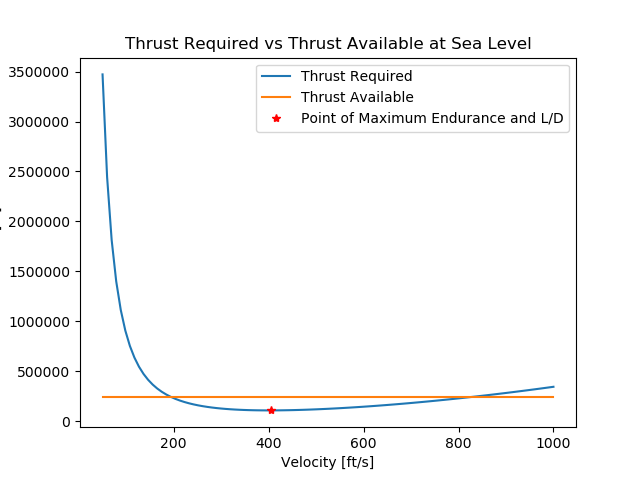
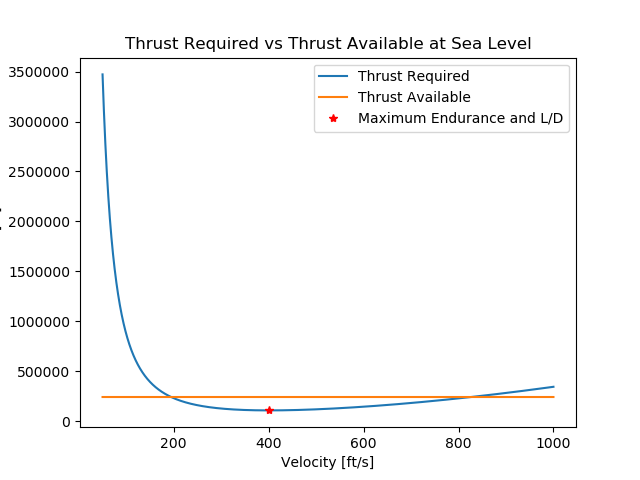
Add modification to aircraft with all the same analysis, cleaned up the code for the main loop for it
Reminder: make the code for the first analysis clean like the second one

diff --git a/main.py b/main.py
@@ -107,7 +107,6 @@ class mae_200_project():
         plt.savefig('max_R_sl.png')
         """
 
-        """
         # Calculate service and absolute ceiling, and max R/C at sea level
         length = 5000
         v = np.linspace(50,1000,length)
@@ -175,6 +174,8 @@ class mae_200_project():
          
         temp1 = 1
         temp3 = 1
+        temp2 = 0
+        temp4 = 0
         for i,i_val in enumerate(v_absolute_ceiling):
             for j,j_val in enumerate(v_absolute_ceiling):
                 if rho_absolute_ceiling[i][j] > 0:
@@ -260,12 +261,12 @@ class mae_200_project():
         plt.title('Endurance vs Velocity at Sea Level')
         plt.legend()
         fig5.savefig('endurance_v_sl')
-        fig6 = plt.figure()
-        plt.plot(v,ratio[length-1])
-        plt.ylim(0,10)
-        plt.xlabel('Velocity [ft/s]')
-        plt.ylabel('C_D_i/C_D_o [-]')
-        plt.title('Ratio of Induced Drag to Parasitic Drag vs Velocity at Sea Level')
+        #fig6 = plt.figure()
+        #plt.plot(v,ratio[length-1])
+        #plt.ylim(0,10)
+        #plt.xlabel('Velocity [ft/s]')
+        #plt.ylabel('C_D_i/C_D_o [-]')
+        #plt.title('Ratio of Induced Drag to Parasitic Drag vs Velocity at Sea Level')
         #plt.show()
         
 
@@ -294,9 +295,8 @@ class mae_200_project():
         # Part 5
         print('\n')
         print('Max rate of climb at sea level: ' + str(R_C_max[length-1]))
-
+   
         """
-
         # Graphs at sea level and 23,000 ft
         length = 100
         rho = np.array([0.0011435,0.002377])
@@ -382,18 +382,198 @@ class mae_200_project():
         fig11.savefig('R_C_sl')
 
         plt.show()
-
+        """
 
         # Modification/Optimization
-        S = 1.2*initial.S
+
+        # started doing this, realized it was going to be a lot of work so stopped
+        """
+        S_front = 1.2*initial.S_front
+        AR = initial.b_front**2/S_front
         W_f = initial.W_f + 0.2*initial.S*initial.sigma_wing
         C_D_o = 1.06*C_D_o
 
+        aircraft = Aircraft()
+        gamma = aircraft.state.gamma
+        R = aircraft.state.R
+
+        fuel 	 = 	0.5*initial.V_fuel_max 						 	   # [lbf] 			 # [SOW]
+        W_add 	 = 	0.2*initial.S*initial.sigma_wing 									 		   # [lb] 			 # [SOW]
+        t_alt 	 = 	418.97 									 		   # [R] 			 # [Table]
+        rho_alt  = 	0.00095801 										   # [slugs/ft^3] 	 # [Table]
+        mu 	     = 	2.27*10**-8*((t_alt**1.5)/(t_alt+198.6)) # [lb-s/ft^2] 	 # [FS]
+        mach	 = 	(gamma*R*t_alt)**0.5 			   # [] 			 # [FS]
+        E	     = 	''									 		   # [s] 			 # [SOW]
+        v 	     = 	0.801 								   # [ft/s] 			 # [SOW]
+        rnge     =  175.8*5280
+
+        V_max_flight = Flight(fuel,W_add,t_alt,rho_alt,v,rnge,E)
+
+        C_L = aircraft.CL(V_max_flight.rho_alt,V_max_flight.v,V_max_flight.W_i)
+        C_D_i = aircraft.CDi(C_L,e,)
+
+        T_a_28k = aircraft.thrustAvailable(V_max_flight.W_i,C_L,C_D)
+        """
+
+        # conditions that change for the modification
+        c_t = 0.5*c_t
+        V_fuel_max = 0.75*initial.V_fuel_max
+
+        fuel 	 = 	1*V_fuel_max 						 	   # [lbf] 			 # [SOW]
+        W_add = initial.W_max-V_fuel_max*initial.sigma_fuel-initial.W_f #additional weight needed to reach max possible weight
+        modified_flight = Flight(fuel,W_add,aircraft.state.t_sea,aircraft.state.rho_sea,0,'','')
+
+        # Main loop, need to edit the one up aboce to only have 1 main loop as well
+        length = 5000
+        v = np.linspace(50,1000,length)
+        rho = np.linspace(0.001,0.002377,length)
+        
+        L_D = np.zeros((length,length))
+        T_a = np.zeros((length,length))
+        T_r = np.zeros((length,length))
+        P_r = np.zeros((length,length))
+        P_a = np.zeros((length,length))
+        R_C = np.zeros((length,length))
+        R_C_max = np.zeros(length)
+
+        R_C_service_ceiling = np.zeros((length,length))
+        rho_service_ceiling = np.zeros((length,length))
+        v_service_ceiling = np.zeros((length,length))
+        R_C_absolute_ceiling = np.zeros((length,length))
+        rho_absolute_ceiling = np.zeros((length,length))
+        v_absolute_ceiling = np.zeros((length,length))
+
+        max_range = np.zeros(length)
+        range_test = np.zeros((length,length))
+        endurance = np.zeros((length,length))
+
+        max_range = 0
+        max_range_v = 0
+        max_range_rho = 0
+        temp1 = 1
+        temp3 = 1
+        temp2 = 0
+        temp4 = 0
+
+        tolerance = 1e-2
+        for i,rho_val in enumerate(rho):
+            temp = 0
+            for j,v_val in enumerate(v):
+                T_a[i][j] = aircraft.thrustAvailable2Alt(T_a_sl,aircraft.state.rho_sea,rho_val)
+                C_L = aircraft.CL(rho_val,v_val,modified_flight.W_i)
+                C_D_i = aircraft.CDi(C_L,e,initial.AR_front)
+                L_D[i][j] = C_L/(C_D_i+C_D_o)
+                T_r[i][j] = modified_flight.W_i/L_D[i][j]
+                P_r[i][j] = T_r[i][j]*v_val
+                P_a[i][j] = T_a[i][j]*v_val
+                R_C[i][j] = 60*(P_a[i][j]-P_r[i][j])/modified_flight.W_i
+                if R_C[i][j] >= 0:
+                    endurance[i][j] = L_D[i][j]*np.log(modified_flight.W_i/modified_flight.W_f)/c_t
+                    range_test[i][j] = aircraft.rnge(rho_val,initial.S,c_t,C_L,C_D_o+C_D_i,modified_flight.W_i,modified_flight.W_f)
+                if R_C[i][j] > temp:
+                    temp = R_C[i][j]
+                R_C_max[i] = temp
+                if R_C[i][j] <= 100+tolerance and R_C[i][j] >= 100-tolerance:
+                    R_C_service_ceiling[i][j] = R_C[i][j]
+                    rho_service_ceiling[i][j] = rho_val
+                    v_service_ceiling[i][j] = v_val
+                elif R_C[i][j] <= tolerance and R_C[i][j] >= -tolerance:
+                    R_C_absolute_ceiling[i][j] = R_C[i][j]
+                    rho_absolute_ceiling[i][j] = rho_val
+                    v_absolute_ceiling[i][j] = v_val
+                if rho_absolute_ceiling[i][j] < temp1 and rho_absolute_ceiling[i][j] > 0:
+                    temp1 = rho_absolute_ceiling[i][j]
+                    temp2 = v_absolute_ceiling[i][j]
+                if rho_service_ceiling[i][j] < temp3 and rho_service_ceiling[i][j] > 0:
+                    temp3 = rho_service_ceiling[i][j]
+                    temp4 = v_service_ceiling[i][j]
+                if range_test[i][j] > max_range:
+                    max_range = range_test[i][j]
+                    max_range_v = v_val
+                    max_range_rho = rho_val
+
+        absolute_ceiling = temp1
+        v_absolute = temp2
+        service_ceiling = temp3
+        v_service = temp4
+
+        fig1 = plt.figure()
+        plt.plot(v,range_test[length-1]/5280)
+        plt.plot(v[np.argmax(range_test[length-1])],max(range_test[length-1]/5280),'r*',label='Maximum Range')
+        plt.xlabel('Velocity [ft/s]')
+        plt.ylabel('Range [mi]')
+        plt.title('Range vs Velocity at Sea Level')
+        plt.legend()
+        fig1.savefig('rnge_v_sl')
+        fig2 = plt.figure()
+        plt.plot(v,P_r[length-1],label='Power Required')
+        plt.plot(v,P_a[length-1],label='Power Available')
+        plt.plot(v[np.argmax(range_test[length-1])],P_r[length-1][np.argmax(range_test[length-1])],'r*',label='Point of Maximum Range')
+        plt.xlabel('Velocity [ft/s]')
+        plt.ylabel('Power [W]')
+        plt.title('Power Required vs Power Available at Sea Level')
+        plt.legend()
+        fig2.savefig('Pr_Pa_sl')
+        fig3 = plt.figure()
+        plt.plot(v,T_r[length-1],label='Thrust Required')
+        plt.plot(v,T_a[length-1],label='Thrust Available')
+        plt.plot(v[np.argmax(endurance[length-1])],T_r[length-1][np.argmax(endurance[length-1])],'r*',label='Maximum Endurance and L/D')
+        #plt.plot(v,T_v[length-1])
+        plt.xlabel('Velocity [ft/s]')
+        plt.ylabel('Thrust [lb]')
+        plt.title('Thrust Required vs Thrust Available at Sea Level')
+        plt.legend()
+        fig3.savefig('Tr_Ta_sl')
+        fig4 = plt.figure()
+        plt.plot(v,L_D[length-1])
+        plt.plot(v[np.argmax(L_D[length-1])],max(L_D[length-1]),'r*',label='Maximum L/D')
+        plt.xlabel('Velocity [ft/s]')
+        plt.ylabel('L/D [-]')
+        plt.title('L/D vs Velocity at Sea Level')
+        plt.legend()
+        fig4.savefig('L_over_D_sl')
+        fig5 = plt.figure()
+        plt.plot(v,endurance[length-1]/3600)
+        plt.plot(v[np.argmax(endurance[length-1])],max(endurance[length-1]/3600),'r*',label='Maximum Endurance')
+        plt.xlabel('Velocity [ft/s]')
+        plt.ylabel('Endurance [hr]')
+        plt.title('Endurance vs Velocity at Sea Level')
+        plt.legend()
+        fig5.savefig('endurance_v_sl')
+        #fig6 = plt.figure()
+        #plt.plot(v,ratio[length-1])
+        #plt.ylim(0,10)
+        #plt.xlabel('Velocity [ft/s]')
+        #plt.ylabel('C_D_i/C_D_o [-]')
+        #plt.title('Ratio of Induced Drag to Parasitic Drag vs Velocity at Sea Level')
+        #plt.show()
         
 
+        # Part 1
+        print('\n')
+        print('The maximum endurance at sea level is ' + str(max(endurance[length-1]/3600)) + ' hr and the speed required to achieve that endurance is ' + str(v[np.argmax(endurance[length-1])]) + ' ft/s.\n')
+        print('The maximum range at sea level is ' + str(max(range_test[length-1]/5280)) + ' mi and the speed required to achieve that range is ' + str(v[np.argmax(range_test[length-1])]) + ' ft/s.\n')
+
+        # Part 2
+        print('\n')
+        print('Global Max Range Data')
+        print('Range: ' + str(max_range/5280))
+        print('V: ' + str(max_range_v))
+        print('Rho: ' + str(max_range_rho))
+        index = np.argwhere(rho==max_range_rho)
+        print('Alt: ' + str(aircraft.rho2Alt(rho[int(index)])))
+
+        # Part 3
 
 
+        # Part 4
+        print('\n')
+        print('Absolute Ceiling: ' + str(aircraft.rho2Alt(absolute_ceiling)) + ' ft at ' + str(v_absolute) + ' ft/s')
+        print('Service Ceiling: ' + str(aircraft.rho2Alt(service_ceiling)) + ' ft at ' + str(v_service) + ' ft/s')
 
+        # Part 5
+        print('\n')
+        print('Max rate of climb at sea level: ' + str(R_C_max[length-1]))
 
 
 
